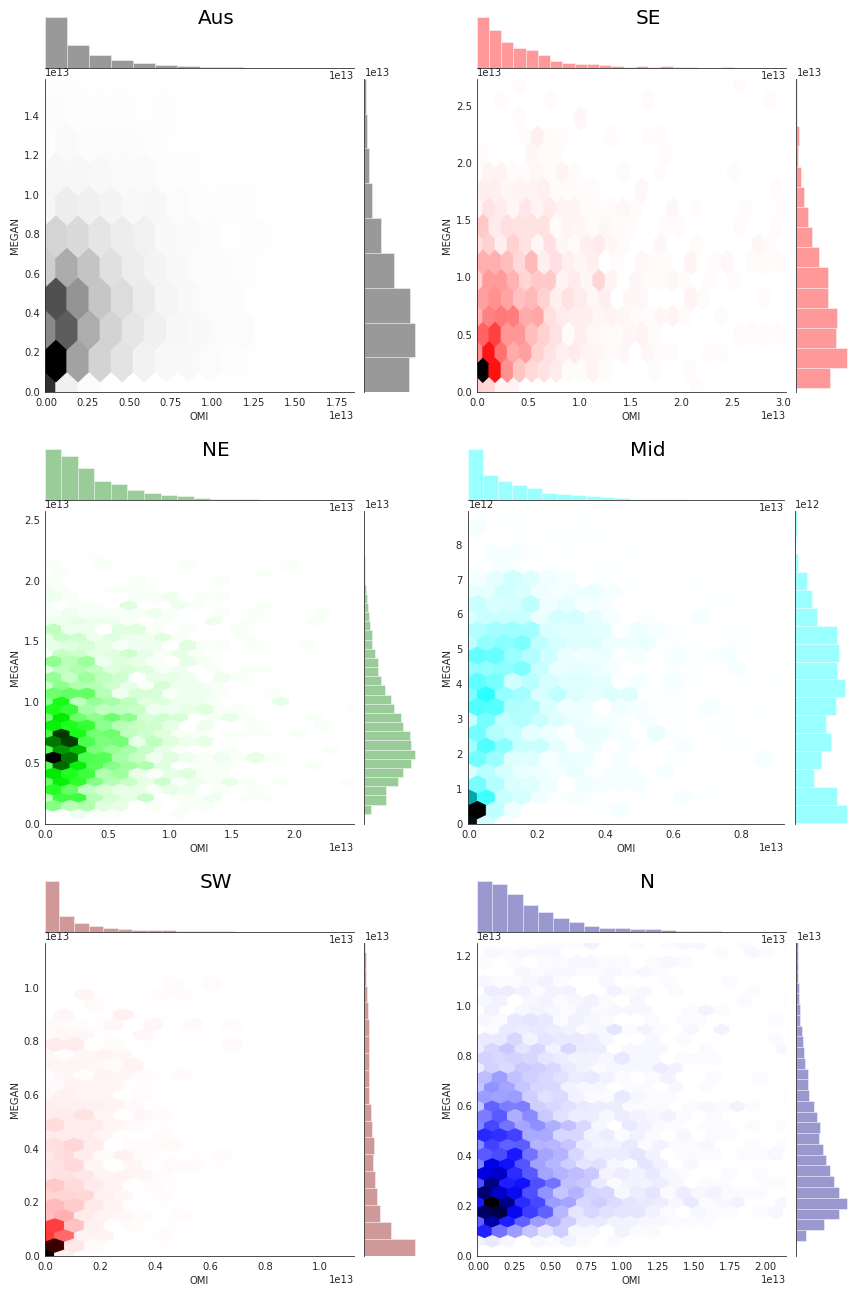
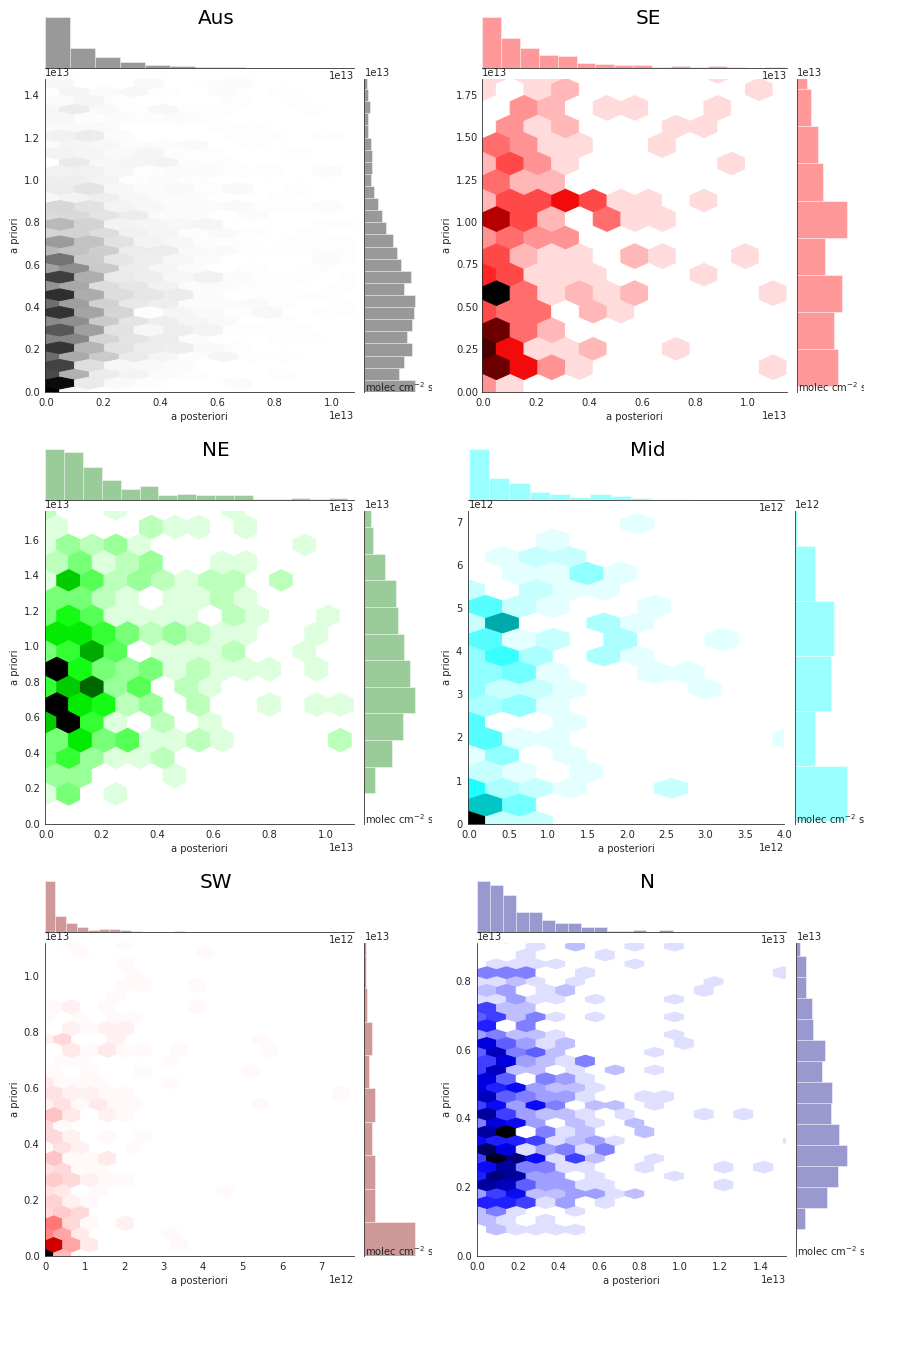
updated monthly egressions plot

diff --git a/Analyse_E_isop.py b/Analyse_E_isop.py
@@ -535,14 +535,18 @@ def E_regional_multiyear(d0=datetime(2005,1,1),dn=datetime(2005,12,31),
     print("Saved %s"%pname)
     plt.close()
 
+# UPDATE: fix Y axis labels -> a priori, X axis -> a posteriori, add units, remove negative axes, REMOVE legend point marker
 def distributions_comparison_regional(d0=datetime(2005,1,1),dE=datetime(2012,12,31)):
     '''
     '''
 
     ## Read Emegan and Enew into dataframe for a region and season
     # a priori and a posteriori
+    print("TESTING , NEED TO UPDATE TO LAST DATE")
+    dE=datetime(2005,2,28)
     Enew=E_new(d0,dE, dkeys=['E_MEGAN','E_PP_lr'])
     lats,lons=Enew.lats_lr,Enew.lons_lr
+    
     Em=Enew.E_MEGAN
     Em[Em<1] = np.NaN
     Eo=Enew.E_PP_lr
@@ -625,7 +629,9 @@ def distributions_comparison_regional(d0=datetime(2005,1,1),dE=datetime(2012,12,
             # make sure minimum value on axes is zero
             g.ax_marg_x.set_xlim(0,g.ax_marg_x.get_xlim()[1])
             g.ax_marg_y.set_ylim(0,g.ax_marg_y.get_ylim()[1])
-            g.ax_joint.legend(handlelength=0, handletextpad=0, frameon=False)
+            thelegend=g.ax_joint.legend(markerscale=0, handlelength=0, handletextpad=0, frameon=False)
+            #for legendhandle in thelegend.legendHandles:
+            #    legendhandle._legmarker.set_markersize(0)
             # Annotate the units
             plt.gca().annotate('molec cm$^{-2}$ s$^{-1}$', xy=(.75,.05))
             # halve the x axis limit
@@ -1214,7 +1220,7 @@ if __name__=='__main__':
     ## compare megan to a top down estimate, both spatially and temporally
     ## Ran 17/7/18 for Jenny jan06 check
     #MEGAN_vs_E_new(d0,dn)
-    #distributions_comparison_regional()
+    distributions_comparison_regional()
     # TODO: need to fix or manually combine the images made in this one...
 
     ## Plot showing comparison of different top-down estimates
@@ -1226,12 +1232,13 @@ if __name__=='__main__':
     ## In isop chapter results
     ## Ran 7/11/18
     with np.warnings.catch_warnings():
+        print("ignoring warnings")
         # run for one year using daily values:
         #for force_monthly in [True, False]:
         #    E_regional_time_series(d0,dn,force_monthly=force_monthly)
         # Run for all years, monthly medians for time series
         
-        E_regional_multiyear(d0=d0,dn=df, etype='pp')
+        #E_regional_multiyear(d0=d0,dn=df, etype='pp')
         #np.warnings.filterwarnings('ignore')
         #for etype in ['gc','omi','pp']:
             #E_regional_multiyear(d0=d0,dn=de, etype=etype)
